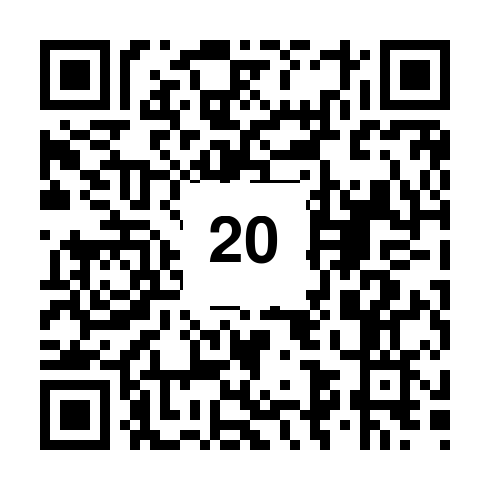
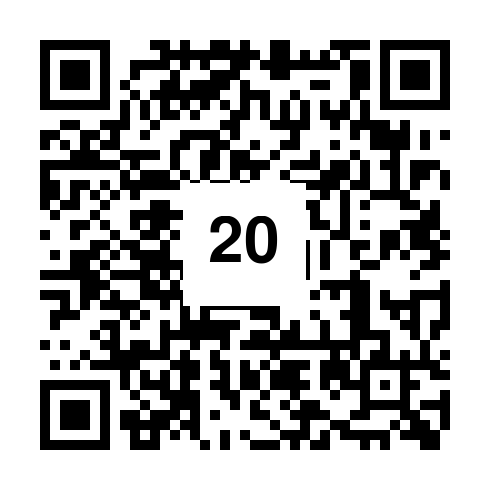
added firms not order qr sticker to ordered list

Changed region(s): [[0.0612, 0.0612, 0.9184, 0.9184]]

diff --git a/templates/digitalMenuNotOrder.html b/templates/digitalMenuNotOrder.html
@@ -73,7 +73,8 @@
                     {% else %}
                         <div class="mad-header-item">
                     {% endif %}
-                    <div class="mad-social-icons">
+
+                    <div class="mad-social-icons"   >
                         <ul>
                             <li>
                                 <a href="{{ company.facebook }}" target="_blank">
@@ -97,6 +98,7 @@
                 </div>
             </div>
             <!--================ End of Section ================-->
+
     </header>
     <!--================ End of Header ================-->
     <!--================ Breadcrumb ================-->

diff --git a/static/js/custom.js b/static/js/custom.js
@@ -1,11 +1,12 @@
-  document.addEventListener('DOMContentLoaded', function() {
+document.addEventListener('DOMContentLoaded', function () {
     var elems = document.querySelectorAll('.fixed-action-btn');
     var instances = M.FloatingActionButton.init(elems, {
-      direction: 'up'
+        direction: 'up'
     });
-  });
+});
 
-  document.addEventListener('DOMContentLoaded', function() {
+document.addEventListener('DOMContentLoaded', function () {
+
     var elems = document.querySelectorAll('.modal');
     var instances = M.Modal.init(elems, {});
-  });
+});

diff --git a/qrback/models.py b/qrback/models.py
@@ -99,9 +99,11 @@ class Company(models.Model):
 
     @property
     def create_qr(self):
+        qr_list = [service.create_qr(self)]
         if self.account_type.has_unique_tables:
-            return [service.create_qr(self, i) for i in range(1, self.account_type.count_of_max_table + 1)]
-        return [service.create_qr(self)]
+            qr_list.extend([service.create_qr(self, i) for i in range(1, self.account_type.count_of_max_table + 1)])
+
+        return qr_list
 
     def __str__(self):
         return self.name

diff --git a/qrforall/urls.py b/qrforall/urls.py
@@ -24,6 +24,6 @@ urlpatterns = [
     path('api/', include('qrest.urls'))
 
 ]
-
-urlpatterns += static(settings.STATIC_URL, document_root=settings.STATIC_ROOT)
-urlpatterns += static(settings.MEDIA_URL, document_root=settings.MEDIA_ROOT)
+if settings.DEBUG:
+    urlpatterns += static(settings.STATIC_URL, document_root=settings.STATIC_ROOT)
+    urlpatterns += static(settings.MEDIA_URL, document_root=settings.MEDIA_ROOT)

diff --git a/qrback/service.py b/qrback/service.py
@@ -46,7 +46,7 @@ def create_qr(obj, num=None):
     # im.paste(generate_num(1), (xmin, ymin, xmax, ymax))
     # im.show()
     im.save(os.path.join(settings.MEDIA_ROOT, imgname))
-    print(settings.MEDIA_URL + imgname)
+    # print(settings.MEDIA_URL + imgname)
     return settings.MEDIA_URL + imgname
 
 

diff --git a/qrback/admin.py b/qrback/admin.py
@@ -187,6 +187,7 @@ class CompanyAdmin(admin.ModelAdmin):
         form.base_fields['slug'].disabled = True
         form.base_fields['slug'].help_text = "This field is not editable"
         return form
+
     # change_form_template = "admin/base_site.html"
 
     def response_change(self, request, obj):
